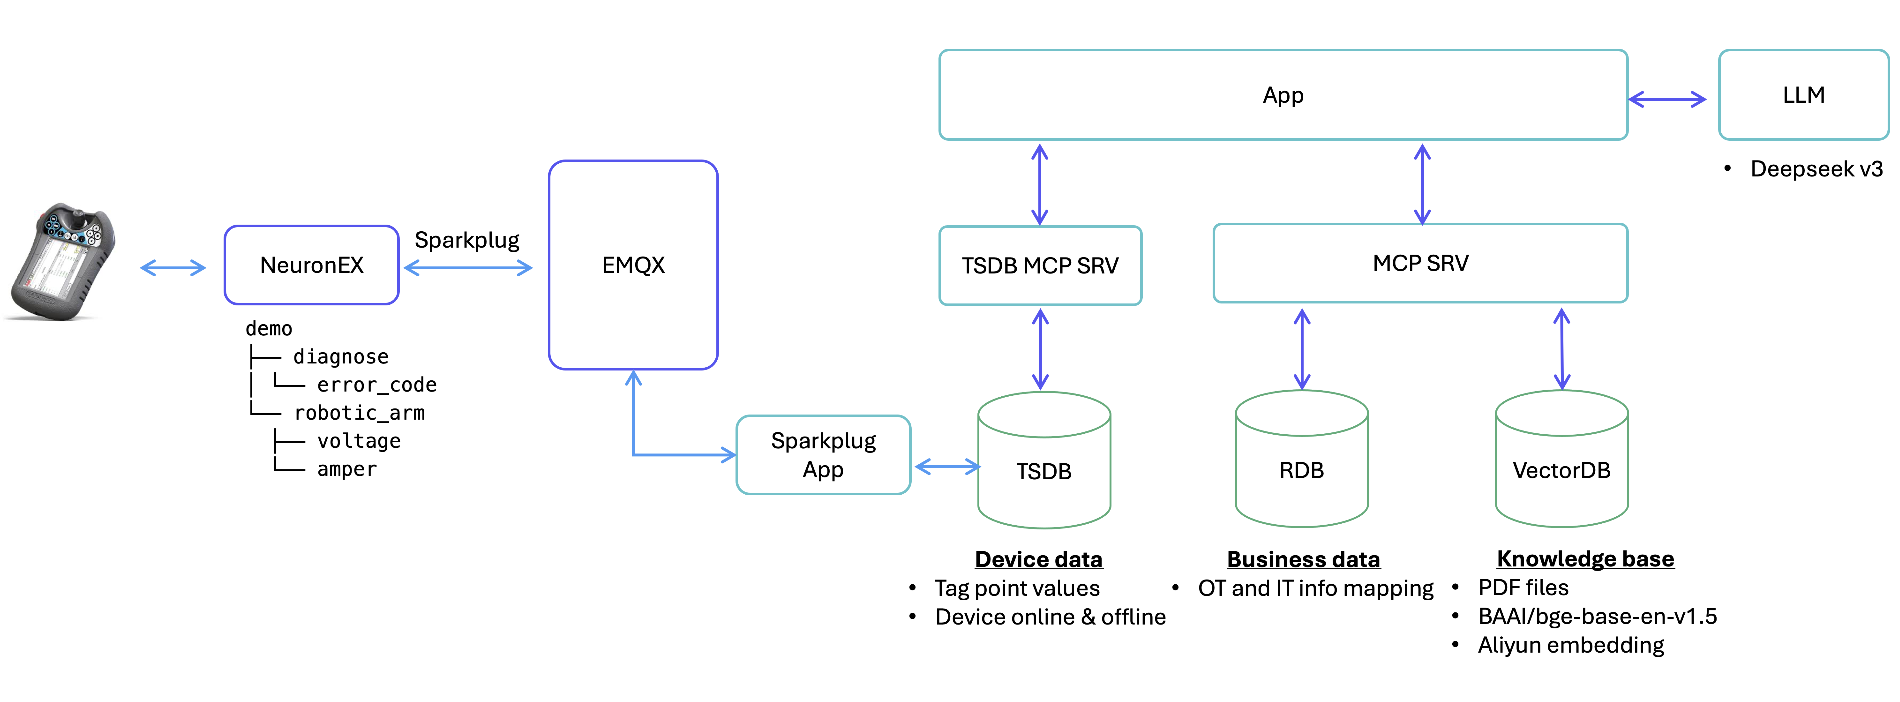
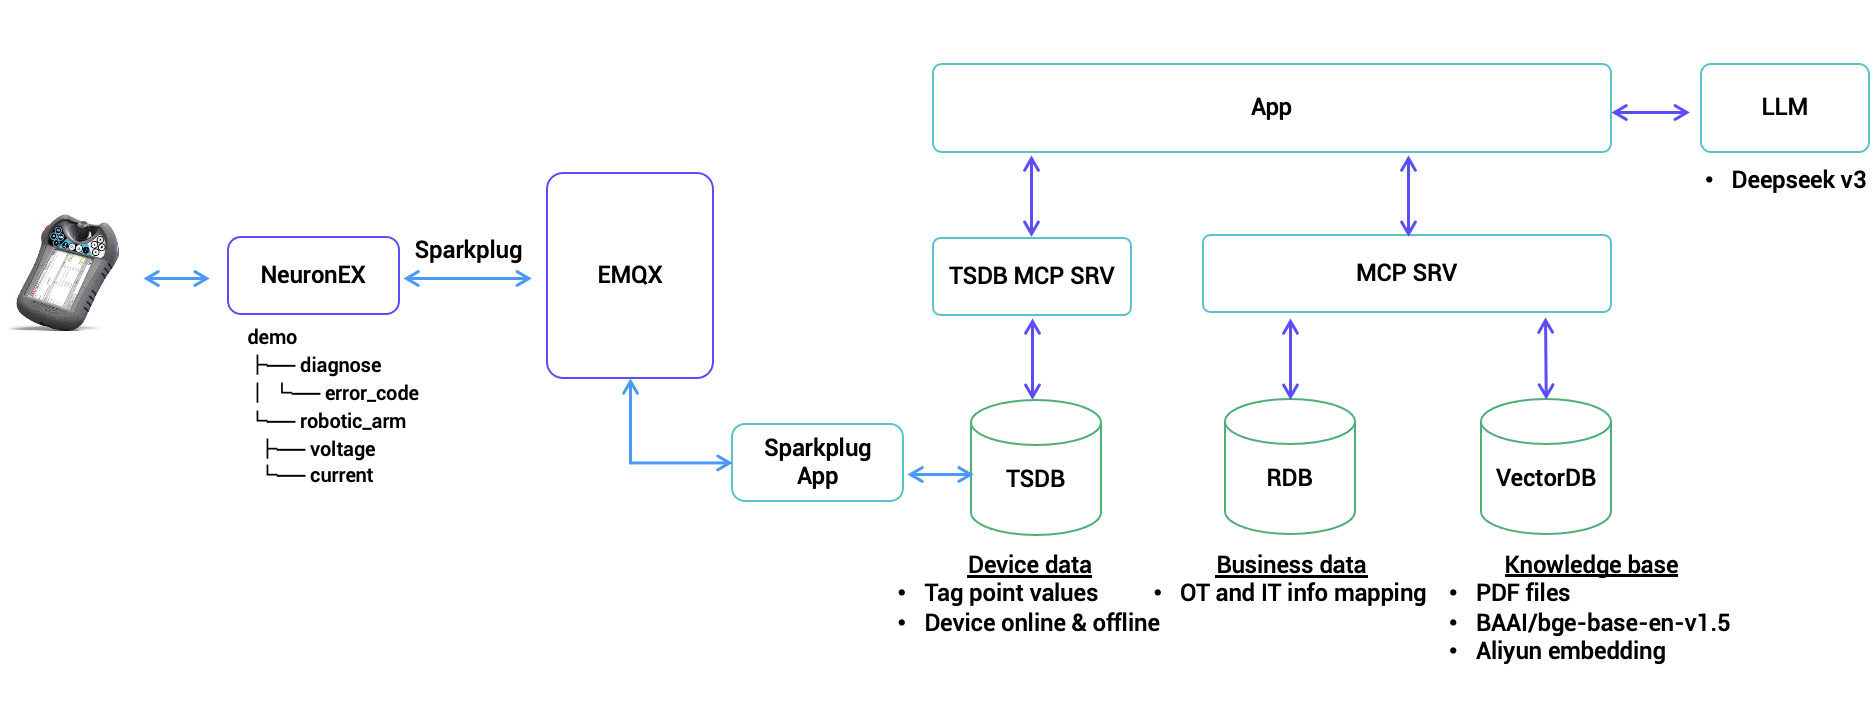
doc: change tag name

diff --git a/docs/demo_scenario.md b/docs/demo_scenario.md
@@ -3,7 +3,7 @@
 - Display the tree structure diagram of the demo
 - Query the latest robotic_arm/voltage tag point of device demo
 - Analyze the robotic_arm/voltage tag point of device demo over the past week
-- Query the latest robotic_arm/amper tag point of the device with alias "Optimus Prime"
+- Query the latest robotic_arm/current tag point of the device with alias "Optimus Prime"
 - Query the latest diagnose/error_code tag point of device demo and retrieve diagnostic information from the knowledge base
 - Analyze the diagnose/error_code tag point of device demo over the past day
 
@@ -16,7 +16,7 @@
 - 列出 demo 的树形结构图
 - 查询设备 demo 最新的 robotic_arm/voltage 点位数据
 - 分析过去一周设备 demo 的 robotic_arm/voltage 点位数据
-- 查询设备别名为擎天柱的最新的 robotic_arm/amper 点位数据
+- 查询设备别名为擎天柱的最新的 robotic_arm/current 点位数据
 - 查询设备 demo 最新的 diagnose/error_code 点位数据,并查询相关知识库获取诊断信息
 - 分析过去一天设备 demo 的 diagnose/error_code 点位数据
 
